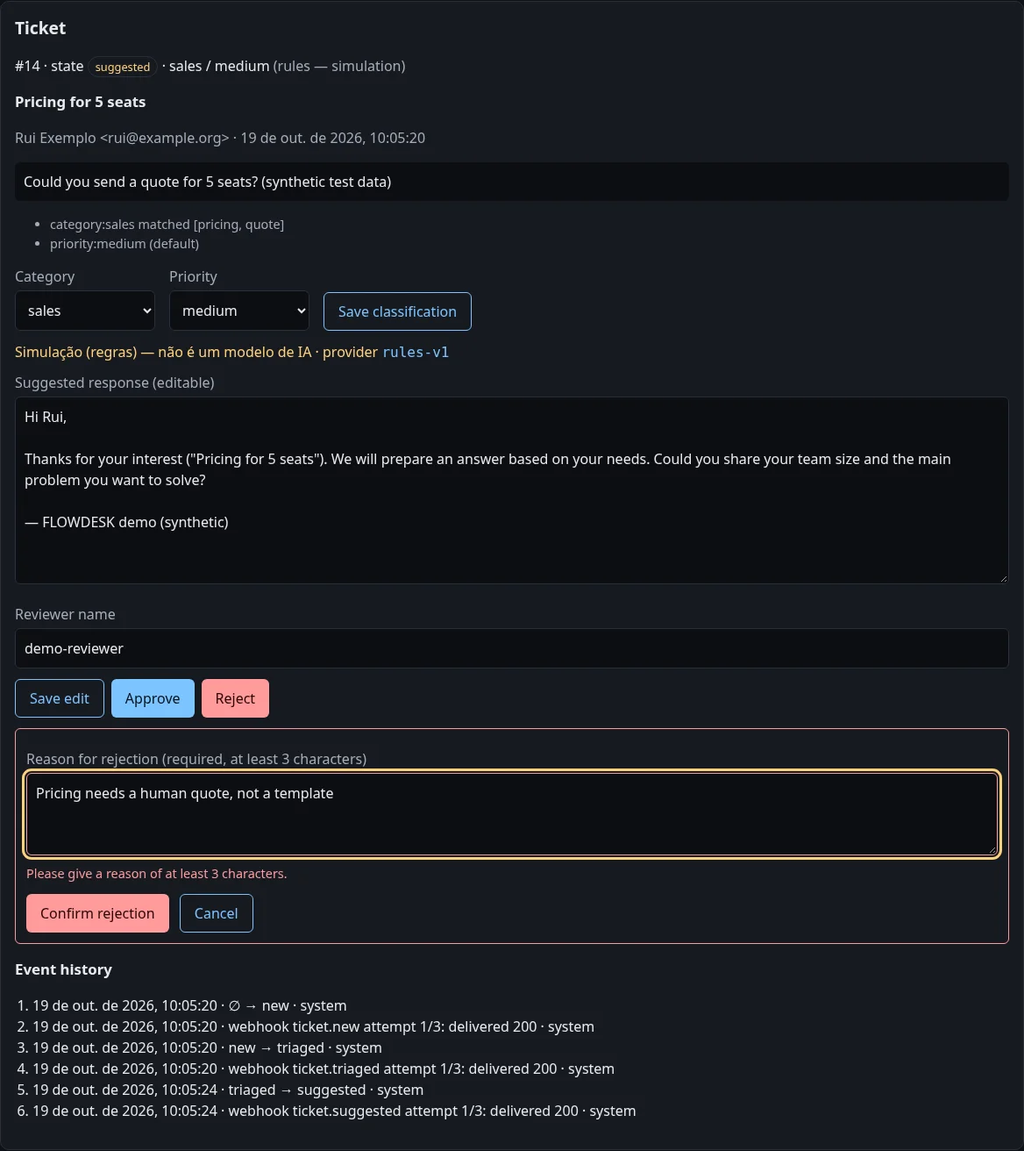
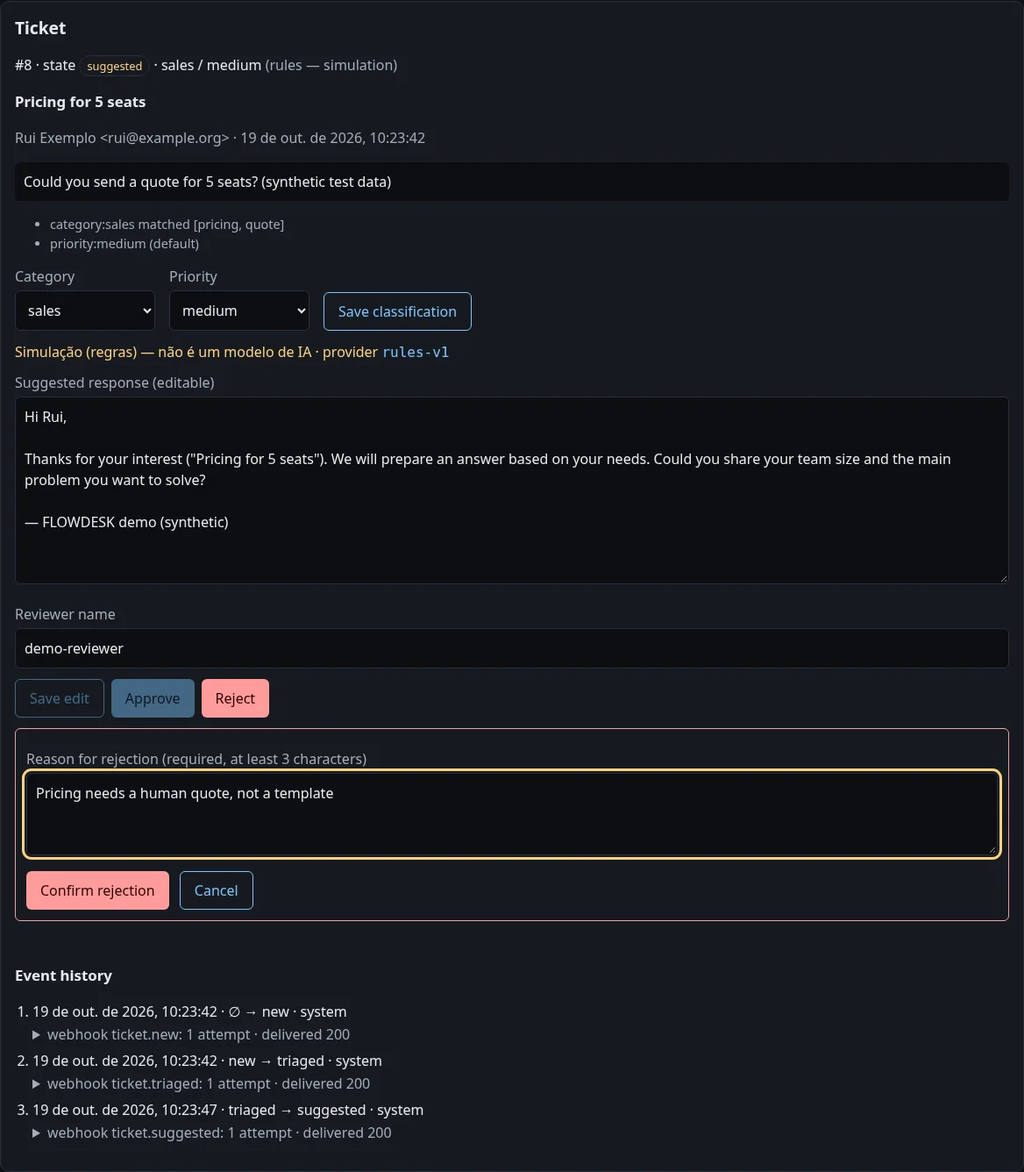
FLOWDESK prints + copy @b9e77fb (94/94, 64/64, axe/pa11y; 07b) + Vênus single scroll offset + main focus target

diff --git a/pt/work/flowdesk/index.html b/pt/work/flowdesk/index.html
@@ -89,20 +89,20 @@
 <figure class="stage stage--pair">
 <div class="stage__bar"><span>flowdesk</span><span class="sep">·</span><span>só local · sem deploy</span></div>
 <div class="stage__media">
-<img src="/assets/img/flowdesk-05-suggestion-sim-label-1280.webp" width="1168" height="1054" loading="lazy" decoding="async" alt="Ticket do FLOWDESK em 1280px após a sugestão por regras: ticket sintético de cobrança &#x27;Charged twice for October&#x27;, triagem billing/high com os motivos das regras, classificação editável, o rótulo &#x27;Simulação (regras) — não é um modelo de IA · provider rules-v1&#x27;, resposta sugerida editável, botões Save edit/Approve/Reject e histórico de seis eventos com as tentativas de webhook.">
-<img src="/assets/img/flowdesk-05-suggestion-sim-label-390.webp" width="716" height="3148" loading="lazy" decoding="async" alt="O mesmo estado de sugestão do FLOWDESK em 390px (celular), com o rótulo de simulação acima da resposta editável.">
+<img src="/assets/img/flowdesk-05-suggestion-sim-label-1280.webp" width="1168" height="1104" loading="lazy" decoding="async" alt="Ticket #7 do FLOWDESK em 1280px após a sugestão por regras: ticket sintético de cobrança &#x27;Charged twice for October&#x27;, triagem billing/high com os motivos das regras, classificação editável, o rótulo &#x27;Simulação (regras) — não é um modelo de IA · provider rules-v1&#x27;, resposta sugerida editável, botões Save edit/Approve/Reject e histórico de três eventos, cada um com as tentativas de webhook recolhidas logo abaixo.">
+<img src="/assets/img/flowdesk-05-suggestion-sim-label-390.webp" width="716" height="3104" loading="lazy" decoding="async" alt="O mesmo estado de sugestão do FLOWDESK em 390px (celular), com o rótulo de simulação acima da resposta editável.">
 </div>
-<figcaption>Captura real · FLOWDESK commit 905a387 · execução local (wrangler dev --local), dados sintéticos · sem deploy · 19/10/2026 10:04–10:06 BRT</figcaption>
+<figcaption>Captura real · FLOWDESK commit b9e77fb · execução local (wrangler dev --local), dados sintéticos · sem deploy · 19/10/2026 10:22–10:24 BRT</figcaption>
 </figure>
 <figure class="stage stage--grid">
 <div class="stage__bar"><span>flowdesk</span><span class="sep">·</span><span>rejeitar → motivo obrigatório</span></div>
 <div class="stage__media">
-<img src="/assets/img/flowdesk-08-reject-reason-empty-1280.webp" width="1168" height="1286" loading="lazy" decoding="async" alt="FLOWDESK em 1280px, segundo ticket sintético &#x27;Pricing for 5 seats&#x27; (sales/medium) depois de Reject: campo do motivo da rejeição na própria tela, vazio e com o foco, e botões Confirm rejection/Cancel.">
-<img src="/assets/img/flowdesk-08b-reject-reason-error-1280.webp" width="1168" height="1312" loading="lazy" decoding="async" alt="FLOWDESK em 1280px depois de Confirm rejection com o motivo vazio: o campo fica marcado como inválido, com o erro &#x27;Please give a reason of at least 3 characters.&#x27;">
-<img src="/assets/img/flowdesk-09-reject-reason-filled-1280.webp" width="1168" height="1312" loading="lazy" decoding="async" alt="FLOWDESK em 1280px com o motivo da rejeição preenchido: &#x27;Pricing needs a human quote, not a template&#x27;.">
-<img src="/assets/img/flowdesk-10-rejected-1280.webp" width="1168" height="1056" loading="lazy" decoding="async" alt="FLOWDESK em 1280px após a rejeição: estado rejected, resposta sugerida só para leitura, &#x27;rejected by demo-reviewer — reason: Pricing needs a human quote, not a template · response_sent: false&#x27;, botão Register (log &amp; close) e histórico de oito eventos.">
+<img src="/assets/img/flowdesk-08-reject-reason-empty-1280.webp" width="1168" height="1336" loading="lazy" decoding="async" alt="FLOWDESK em 1280px, segundo ticket sintético #8 &#x27;Pricing for 5 seats&#x27; (sales/medium) depois de Reject: campo do motivo da rejeição na própria tela, vazio e com o foco, botões Confirm rejection/Cancel, e Save edit/Approve desativados.">
+<img src="/assets/img/flowdesk-08b-reject-reason-error-1280.webp" width="1168" height="1362" loading="lazy" decoding="async" alt="FLOWDESK em 1280px depois de Confirm rejection com o motivo vazio: o campo fica marcado como inválido, com o erro &#x27;Please give a reason of at least 3 characters.&#x27;">
+<img src="/assets/img/flowdesk-09-reject-reason-filled-1280.webp" width="1168" height="1336" loading="lazy" decoding="async" alt="FLOWDESK em 1280px com o motivo da rejeição preenchido, &#x27;Pricing needs a human quote, not a template&#x27;: o erro some e Save edit/Approve continuam desativados.">
+<img src="/assets/img/flowdesk-10-rejected-1280.webp" width="1168" height="1114" loading="lazy" decoding="async" alt="FLOWDESK em 1280px após a rejeição: estado rejected, resposta sugerida só para leitura, &#x27;rejected by demo-reviewer — reason: Pricing needs a human quote, not a template · response_sent: false&#x27;, botão Register (log &amp; close) e histórico de quatro eventos com as tentativas de webhook recolhidas.">
 </div>
-<figcaption>Captura real · FLOWDESK commit 905a387 · execução local (wrangler dev --local), dados sintéticos · sem deploy · 19/10/2026 10:04–10:06 BRT</figcaption>
+<figcaption>Captura real · FLOWDESK commit b9e77fb · execução local (wrangler dev --local), dados sintéticos · sem deploy · 19/10/2026 10:22–10:24 BRT</figcaption>
 </figure></section>
 <section id="c-arch" aria-labelledby="c-arch-h"><h2 id="c-arch-h"><span class="num">04</span>Arquitetura</h2>
 <p>Um Cloudflare Worker que serve uma interface estática e uma API REST, com banco D1 (SQLite). Os dados ficam isolados por sandbox de visitante. Localmente, roda com <code>wrangler dev --local</code> (miniflare/workerd). As sugestões vêm de uma interface de provedor substituível. Hoje o único provedor é a simulação por regras, então conectar um modelo real depois significa acrescentar um provedor, o que exige um provedor autorizado.</p>
@@ -128,23 +128,30 @@
   - Uma assinatura de webhook forjada responde 401.
 - <strong>Um receptor externo de webhook</strong> conferiu todos os eventos assinados que recebeu.
 - <strong>Checagens de segurança:</strong>
-  - um teste de mutação no código de isolamento, autenticação, expiração, limites de envio e novas tentativas, em que todas as mutações foram detectadas;
   - as checagens estáticas;
   - gitleaks e trufflehog, rodados localmente, sem achados;
   - <code>npm audit</code> sem vulnerabilidades.</p>
-<p>Contagens da execução local de 19/10/2026 (commit testado <code>1b489bf</code>, código idêntico ao <code>905a387</code>), reproduzidas de forma independente pelo QA: 88/88 testes unitários e de integração, 50/50 checagens no navegador, 16/16 mutações detectadas, 5/5 assinaturas de webhook conferidas por um receptor externo.</p>
+<p>Contagens da execução local de 19/10/2026 no commit <code>b9e77fb</code>, reproduzidas de forma independente pelo QA: 94/94 testes unitários e de integração, 64/64 checagens no navegador, 5/5 assinaturas de webhook conferidas por um receptor externo.</p>
 <h3>Links</h3>
 <ul>
 <li>Repositório público: ainda não há. Log de testes interno, repositório ainda não público.</li>
-<li>Commit: <code>905a387</code> (local, sem URL pública).</li>
+<li>Commit: <code>b9e77fb</code> (local, sem URL pública).</li>
 </ul>
 <figure class="stage stage--pair">
 <div class="stage__bar"><span>flowdesk</span><span class="sep">·</span><span>aprovado → registrado</span></div>
 <div class="stage__media">
-<img src="/assets/img/flowdesk-07-logged-history-1280.webp" width="1168" height="1112" loading="lazy" decoding="async" alt="Ticket do FLOWDESK em 1280px após aprovação humana e registro: estado logged, o rótulo de simulação marcado &#x27;edited by a human&#x27;, a resposta aprovada só para leitura, &#x27;approved by demo-reviewer · response_sent: false (demo never sends email)&#x27; e histórico de onze eventos com as mudanças de estado, a edição do revisor e as tentativas de webhook.">
-<img src="/assets/img/flowdesk-07-logged-history-390.webp" width="716" height="3516" loading="lazy" decoding="async" alt="O mesmo ticket registrado do FLOWDESK em 390px (celular), com a resposta aprovada e o histórico completo.">
+<img src="/assets/img/flowdesk-07-logged-history-1280.webp" width="1168" height="1186" loading="lazy" decoding="async" alt="Ticket #7 do FLOWDESK em 1280px após aprovação humana e registro: estado logged, o rótulo de simulação marcado &#x27;edited by a human&#x27;, a resposta aprovada só para leitura, &#x27;approved by demo-reviewer · response_sent: false (demo never sends email)&#x27; e histórico de seis eventos (mudanças de estado e a edição do revisor), com as tentativas de webhook recolhidas sob cada mudança de estado.">
+<img src="/assets/img/flowdesk-07-logged-history-390.webp" width="716" height="3424" loading="lazy" decoding="async" alt="O mesmo ticket registrado do FLOWDESK em 390px (celular), com a resposta aprovada e o histórico de eventos.">
 </div>
-<figcaption>Captura real · FLOWDESK commit 905a387 · execução local (wrangler dev --local), dados sintéticos · sem deploy · 19/10/2026 10:04–10:06 BRT</figcaption>
+<figcaption>Captura real · FLOWDESK commit b9e77fb · execução local (wrangler dev --local), dados sintéticos · sem deploy · 19/10/2026 10:22–10:24 BRT</figcaption>
+</figure>
+<figure class="stage stage--pair">
+<div class="stage__bar"><span>flowdesk</span><span class="sep">·</span><span>tentativas de webhook abertas</span></div>
+<div class="stage__media">
+<img src="/assets/img/flowdesk-07b-logged-history-attempts-expanded-1280.webp" width="1168" height="1214" loading="lazy" decoding="async" alt="O mesmo ticket #7 registrado do FLOWDESK em 1280px com o primeiro grupo de webhook aberto: &#x27;webhook ticket.new: 1 attempt · delivered 200&#x27; mostra a tentativa 1/3, entregue com 200.">
+<img src="/assets/img/flowdesk-07b-logged-history-attempts-expanded-390.webp" width="716" height="3528" loading="lazy" decoding="async" alt="O mesmo grupo de tentativas de webhook aberto, em 390px (celular).">
+</div>
+<figcaption>Captura real · FLOWDESK commit b9e77fb · execução local (wrangler dev --local), dados sintéticos · sem deploy · 19/10/2026 10:22–10:24 BRT</figcaption>
 </figure></section>
 <section id="c-roles" aria-labelledby="c-roles-h"><h2 id="c-roles-h"><span class="num">06</span>Papel humano e ferramentas de IA</h2>
 <p>A aprovação humana é uma etapa <strong>dentro do produto</strong>: nada é aprovado nem registrado sem a ação de uma pessoa, e toda ação fica registrada com o autor. O software foi feito com desenvolvimento assistido por IA sob direção humana.</p>
@@ -171,10 +178,6 @@
 <td>passaram</td>
 </tr>
 <tr>
-<td>Teste de mutação (isolamento, autenticação, expiração, limites, novas tentativas)</td>
-<td>todas as mutações detectadas</td>
-</tr>
-<tr>
 <td>Checagens estáticas de segurança; gitleaks; trufflehog (local)</td>
 <td>passaram, sem achados</td>
 </tr>
@@ -192,7 +195,7 @@
 </tr>
 <tr>
 <td>axe-core / pa11y (local, QA)</td>
-<td>axe: nenhuma violação em 9 estados da interface; pa11y: 2 problemas em aberto</td>
+<td>axe: nenhuma violação em 9 estados da interface; pa11y: nenhum erro (4/4 estados da interface verificados)</td>
 </tr>
 </tbody>
 </table></div>
@@ -204,7 +207,7 @@
 <li><strong>Sem CI remoto.</strong> O arquivo de workflow existe, mas o repositório não tem remoto, então ele nunca rodou.</li>
 <li><strong>As novas tentativas de webhook não são duráveis.</strong> Elas rodam no mesmo ciclo da requisição. Sem o Cloudflare Queues, tentativas pendentes podem se perder se o worker for encerrado.</li>
 <li><strong>Sem limpeza agendada dos sandboxes.</strong> Os sandboxes expirados só são removidos quando acessados ou pela rota de administração; não há tarefa agendada.</li>
-<li><strong>A acessibilidade foi verificada só de forma automática</strong> (axe-core, pa11y) num servidor local, sem teste com leitor de tela; o pa11y ainda aponta dois problemas em aberto.</li>
+<li><strong>A acessibilidade foi verificada só de forma automática</strong> (axe-core, pa11y) num servidor local, sem teste com leitor de tela.</li>
 <li>Os visitantes são anônimos e a administração usa um único token compartilhado; não há contas de usuário.</li>
 <li>O limite de envios é uma janela fixa simples, não serve contra abuso.</li>
 <li>A interface está em inglês, com exceção do rótulo de simulação em português.</li>

diff --git a/work/flowdesk/index.html b/work/flowdesk/index.html
@@ -89,20 +89,20 @@
 <figure class="stage stage--pair">
 <div class="stage__bar"><span>flowdesk</span><span class="sep">·</span><span>local only · not deployed</span></div>
 <div class="stage__media">
-<img src="/assets/img/flowdesk-05-suggestion-sim-label-1280.webp" width="1168" height="1054" loading="lazy" decoding="async" alt="FLOWDESK ticket at 1280px after a rule-based suggestion: synthetic billing ticket &#x27;Charged twice for October&#x27;, triage billing/high with the matched rule reasons, editable classification, the label &#x27;Simulação (regras) — não é um modelo de IA · provider rules-v1&#x27;, an editable suggested reply, Save edit/Approve/Reject buttons and a six-entry event history with webhook delivery attempts.">
-<img src="/assets/img/flowdesk-05-suggestion-sim-label-390.webp" width="716" height="3148" loading="lazy" decoding="async" alt="The same FLOWDESK suggestion state at 390px mobile width, with the simulation label above the editable reply.">
+<img src="/assets/img/flowdesk-05-suggestion-sim-label-1280.webp" width="1168" height="1104" loading="lazy" decoding="async" alt="FLOWDESK ticket #7 at 1280px after a rule-based suggestion: synthetic billing ticket &#x27;Charged twice for October&#x27;, triage billing/high with the matched rule reasons, editable classification, the label &#x27;Simulação (regras) — não é um modelo de IA · provider rules-v1&#x27;, an editable suggested reply, Save edit/Approve/Reject buttons and a three-entry event history, each entry with its webhook attempts collapsed beneath it.">
+<img src="/assets/img/flowdesk-05-suggestion-sim-label-390.webp" width="716" height="3104" loading="lazy" decoding="async" alt="The same FLOWDESK suggestion state at 390px mobile width, with the simulation label above the editable reply.">
 </div>
-<figcaption>Real capture · FLOWDESK commit 905a387 · local run (wrangler dev --local), synthetic data · not deployed · 2026-10-19 10:04–10:06 BRT</figcaption>
+<figcaption>Real capture · FLOWDESK commit b9e77fb · local run (wrangler dev --local), synthetic data · not deployed · 2026-10-19 10:22–10:24 BRT</figcaption>
 </figure>
 <figure class="stage stage--grid">
 <div class="stage__bar"><span>flowdesk</span><span class="sep">·</span><span>reject → reason required</span></div>
 <div class="stage__media">
-<img src="/assets/img/flowdesk-08-reject-reason-empty-1280.webp" width="1168" height="1286" loading="lazy" decoding="async" alt="FLOWDESK at 1280px, second synthetic ticket &#x27;Pricing for 5 seats&#x27; (sales/medium) after Reject: an inline, empty field for the rejection reason, with focus on it, and Confirm rejection/Cancel buttons.">
-<img src="/assets/img/flowdesk-08b-reject-reason-error-1280.webp" width="1168" height="1312" loading="lazy" decoding="async" alt="FLOWDESK at 1280px after Confirm rejection with an empty reason: the field is marked invalid with the error &#x27;Please give a reason of at least 3 characters.&#x27;">
-<img src="/assets/img/flowdesk-09-reject-reason-filled-1280.webp" width="1168" height="1312" loading="lazy" decoding="async" alt="FLOWDESK at 1280px with the rejection reason filled in: &#x27;Pricing needs a human quote, not a template&#x27;.">
-<img src="/assets/img/flowdesk-10-rejected-1280.webp" width="1168" height="1056" loading="lazy" decoding="async" alt="FLOWDESK at 1280px after the rejection: state rejected, the suggested reply read-only, &#x27;rejected by demo-reviewer — reason: Pricing needs a human quote, not a template · response_sent: false&#x27;, a Register (log &amp; close) button and an eight-entry event history.">
+<img src="/assets/img/flowdesk-08-reject-reason-empty-1280.webp" width="1168" height="1336" loading="lazy" decoding="async" alt="FLOWDESK at 1280px, second synthetic ticket #8 &#x27;Pricing for 5 seats&#x27; (sales/medium) after Reject: an inline, empty field for the rejection reason, with focus on it, Confirm rejection/Cancel buttons, and Save edit/Approve disabled.">
+<img src="/assets/img/flowdesk-08b-reject-reason-error-1280.webp" width="1168" height="1362" loading="lazy" decoding="async" alt="FLOWDESK at 1280px after Confirm rejection with an empty reason: the field is marked invalid with the error &#x27;Please give a reason of at least 3 characters.&#x27;">
+<img src="/assets/img/flowdesk-09-reject-reason-filled-1280.webp" width="1168" height="1336" loading="lazy" decoding="async" alt="FLOWDESK at 1280px with the rejection reason filled in, &#x27;Pricing needs a human quote, not a template&#x27;: the error is cleared and Save edit/Approve stay disabled.">
+<img src="/assets/img/flowdesk-10-rejected-1280.webp" width="1168" height="1114" loading="lazy" decoding="async" alt="FLOWDESK at 1280px after the rejection: state rejected, the suggested reply read-only, &#x27;rejected by demo-reviewer — reason: Pricing needs a human quote, not a template · response_sent: false&#x27;, a Register (log &amp; close) button and a four-entry event history with collapsed webhook attempts.">
 </div>
-<figcaption>Real capture · FLOWDESK commit 905a387 · local run (wrangler dev --local), synthetic data · not deployed · 2026-10-19 10:04–10:06 BRT</figcaption>
+<figcaption>Real capture · FLOWDESK commit b9e77fb · local run (wrangler dev --local), synthetic data · not deployed · 2026-10-19 10:22–10:24 BRT</figcaption>
 </figure></section>
 <section id="c-arch" aria-labelledby="c-arch-h"><h2 id="c-arch-h"><span class="num">04</span>Architecture</h2>
 <p>A Cloudflare Worker serving a static interface and a REST API, with a D1 (SQLite) database. Data is isolated per visitor sandbox. Locally it runs on <code>wrangler dev --local</code> (miniflare/workerd). Suggestions come from a pluggable provider interface. The only provider today is the rules simulation, so connecting a real model later would mean adding a provider, which needs an authorised provider.</p>
@@ -128,23 +128,30 @@
   - A forged webhook signature returns 401.
 - <strong>An external webhook receiver</strong> verified every signed event it received.
 - <strong>Security checks:</strong>
-  - a mutation check on the isolation, authentication, expiry, rate-limit and retry code, in which every mutant was caught;
   - static checks;
   - gitleaks and trufflehog, both run locally, with no findings;
   - <code>npm audit</code> with no vulnerabilities.</p>
-<p>Counts from the local run of 2026-10-19 (tested commit <code>1b489bf</code>, code identical to <code>905a387</code>), reproduced independently by QA: 88/88 unit and integration tests, 50/50 browser checks, 16/16 mutants caught, 5/5 webhook signatures verified by an external receiver.</p>
+<p>Counts from the local run of 2026-10-19 at commit <code>b9e77fb</code>, reproduced independently by QA: 94/94 unit and integration tests, 64/64 browser checks, 5/5 webhook signatures verified by an external receiver.</p>
 <h3>Links</h3>
 <ul>
 <li>Public repository: none yet. Internal test log, repository not yet public.</li>
-<li>Commit: <code>905a387</code> (local, no public URL).</li>
+<li>Commit: <code>b9e77fb</code> (local, no public URL).</li>
 </ul>
 <figure class="stage stage--pair">
 <div class="stage__bar"><span>flowdesk</span><span class="sep">·</span><span>approved → logged</span></div>
 <div class="stage__media">
-<img src="/assets/img/flowdesk-07-logged-history-1280.webp" width="1168" height="1112" loading="lazy" decoding="async" alt="FLOWDESK ticket at 1280px after human approval and logging: state logged, the simulation label marked &#x27;edited by a human&#x27;, the approved response read-only, &#x27;approved by demo-reviewer · response_sent: false (demo never sends email)&#x27; and an eleven-entry event history of state changes, the reviewer&#x27;s edit and webhook delivery attempts.">
-<img src="/assets/img/flowdesk-07-logged-history-390.webp" width="716" height="3516" loading="lazy" decoding="async" alt="The same logged FLOWDESK ticket at 390px mobile width, with the approved response and the full event history.">
+<img src="/assets/img/flowdesk-07-logged-history-1280.webp" width="1168" height="1186" loading="lazy" decoding="async" alt="FLOWDESK ticket #7 at 1280px after human approval and logging: state logged, the simulation label marked &#x27;edited by a human&#x27;, the approved response read-only, &#x27;approved by demo-reviewer · response_sent: false (demo never sends email)&#x27; and a six-entry event history (state changes and the reviewer&#x27;s edit), with the webhook attempts collapsed under each state change.">
+<img src="/assets/img/flowdesk-07-logged-history-390.webp" width="716" height="3424" loading="lazy" decoding="async" alt="The same logged FLOWDESK ticket at 390px mobile width, with the approved response and the event history.">
 </div>
-<figcaption>Real capture · FLOWDESK commit 905a387 · local run (wrangler dev --local), synthetic data · not deployed · 2026-10-19 10:04–10:06 BRT</figcaption>
+<figcaption>Real capture · FLOWDESK commit b9e77fb · local run (wrangler dev --local), synthetic data · not deployed · 2026-10-19 10:22–10:24 BRT</figcaption>
+</figure>
+<figure class="stage stage--pair">
+<div class="stage__bar"><span>flowdesk</span><span class="sep">·</span><span>webhook attempts expanded</span></div>
+<div class="stage__media">
+<img src="/assets/img/flowdesk-07b-logged-history-attempts-expanded-1280.webp" width="1168" height="1214" loading="lazy" decoding="async" alt="The same logged FLOWDESK ticket #7 at 1280px with the first webhook group expanded: &#x27;webhook ticket.new: 1 attempt · delivered 200&#x27; opens to show attempt 1/3, delivered 200.">
+<img src="/assets/img/flowdesk-07b-logged-history-attempts-expanded-390.webp" width="716" height="3528" loading="lazy" decoding="async" alt="The same expanded webhook attempt group at 390px mobile width.">
+</div>
+<figcaption>Real capture · FLOWDESK commit b9e77fb · local run (wrangler dev --local), synthetic data · not deployed · 2026-10-19 10:22–10:24 BRT</figcaption>
 </figure></section>
 <section id="c-roles" aria-labelledby="c-roles-h"><h2 id="c-roles-h"><span class="num">06</span>Human role and AI tools</h2>
 <p>Human approval is a step <strong>inside the product</strong>: nothing is approved or registered without a person acting, and every action is logged with its author. The software was built through human-directed AI-assisted development.</p>
@@ -171,10 +178,6 @@
 <td>passed</td>
 </tr>
 <tr>
-<td>Mutation check (isolation, auth, expiry, rate limit, retry)</td>
-<td>every mutant caught</td>
-</tr>
-<tr>
 <td>Static security checks; gitleaks; trufflehog (local)</td>
 <td>passed, no findings</td>
 </tr>
@@ -192,7 +195,7 @@
 </tr>
 <tr>
 <td>axe-core / pa11y (local, QA)</td>
-<td>axe: no violations in 9 interface states; pa11y: 2 open issues</td>
+<td>axe: no violations in 9 interface states; pa11y: no errors (4/4 interface states checked)</td>
 </tr>
 </tbody>
 </table></div>
@@ -204,7 +207,7 @@
 <li><strong>No remote CI.</strong> A workflow file exists, but the repository has no remote, so it has never run.</li>
 <li><strong>Webhook retry is not durable.</strong> Retries run in the same request lifecycle. Without Cloudflare Queues, pending attempts can be lost if the worker is stopped.</li>
 <li><strong>No scheduled sandbox cleanup.</strong> Expired sandboxes are removed only when accessed or through the admin route; there is no scheduled job.</li>
-<li><strong>Accessibility was checked only automatically</strong> (axe-core, pa11y) on a local server, with no screen-reader test; pa11y still reports two open issues.</li>
+<li><strong>Accessibility was checked only automatically</strong> (axe-core, pa11y) on a local server, with no screen-reader test.</li>
 <li>Visitors are anonymous and the admin uses a single shared token; there are no user accounts.</li>
 <li>The rate limit is a simple fixed window, not abuse-grade.</li>
 <li>The interface is in English, apart from the Portuguese simulation label.</li>

diff --git a/pt/work/index.html b/pt/work/index.html
@@ -65,9 +65,9 @@
 <p><strong>O que é:</strong> ambiente de análise de xadrez. A interface React só conversa com o motor nativo por meio de um controlador WebSocket e de um adaptador UCI; a versão Android roda o motor como processo nativo.
 <strong>Testado:</strong> passou em 8/8 testes de parser e de sessão (com saída de motor simulada), e o typecheck está limpo.
 <strong>Não feito:</strong> sem CI, sem rodar os smoke tests do motor e sem benchmark de força ou desempenho.</p>
-<p class="more">→ <a href="/pt/work/sherlock/">SHERLOCK</a></p></div></article><article class="card project-card"><div class="project-card__media"><img src="/assets/img/flowdesk-05-suggestion-sim-label-1280.webp" width="1168" height="1054" loading="lazy" decoding="async" alt="Ticket do FLOWDESK em 1280px após a sugestão por regras: ticket sintético de cobrança &#x27;Charged twice for October&#x27;, triagem billing/high com os motivos das regras, classificação editável, o rótulo &#x27;Simulação (regras) — não é um modelo de IA · provider rules-v1&#x27;, resposta sugerida editável, botões Save edit/Approve/Reject e histórico de seis eventos com as tentativas de webhook."></div><div class="project-card__body"><div class="project-card__meta"><span class="tag tag--warn">em desenvolvimento</span><span class="tag tag--sim">Simulação (regras) — não é um modelo de IA</span><span class="tag">só local · sem deploy</span></div><h3>FLOWDESK · AI Operations Demo</h3>
+<p class="more">→ <a href="/pt/work/sherlock/">SHERLOCK</a></p></div></article><article class="card project-card"><div class="project-card__media"><img src="/assets/img/flowdesk-05-suggestion-sim-label-1280.webp" width="1168" height="1104" loading="lazy" decoding="async" alt="Ticket #7 do FLOWDESK em 1280px após a sugestão por regras: ticket sintético de cobrança &#x27;Charged twice for October&#x27;, triagem billing/high com os motivos das regras, classificação editável, o rótulo &#x27;Simulação (regras) — não é um modelo de IA · provider rules-v1&#x27;, resposta sugerida editável, botões Save edit/Approve/Reject e histórico de três eventos, cada um com as tentativas de webhook recolhidas logo abaixo."></div><div class="project-card__body"><div class="project-card__meta"><span class="tag tag--warn">em desenvolvimento</span><span class="tag tag--sim">Simulação (regras) — não é um modelo de IA</span><span class="tag">só local · sem deploy</span></div><h3>FLOWDESK · AI Operations Demo</h3>
 <p><strong>O que é:</strong> a demonstração de um fluxo de operações: formulário → triagem por regras → sugestão de resposta simulada → aprovação humana → registro, com webhooks assinados, um sandbox privado de 24 horas por visitante e administração protegida por token.
-<strong>Testado:</strong> testes unitários, de integração e no navegador passaram num servidor local (88/88, 50/50), reproduzidos pelo QA.
+<strong>Testado:</strong> testes unitários, de integração e no navegador passaram num servidor local (94/94, 64/64), reproduzidos pelo QA.
 <strong>Não feito:</strong> demo local, hospedagem pendente; sem CI remoto; acessibilidade verificada só de forma automática.</p>
 <p class="more">→ <a href="/pt/work/flowdesk/">FLOWDESK</a></p></div></article></div></section>
 <section class="section__head" aria-labelledby="w-1"><h2 id="w-1">Outros projetos públicos</h2><div class="card-grid card-grid--3"><article class="card project-card"><div class="project-card__body"><h3>MIME</h3>

diff --git a/work/index.html b/work/index.html
@@ -65,9 +65,9 @@
 <p><strong>What it is:</strong> a chess analysis environment. A React interface talks to a native chess engine only through a WebSocket controller and a UCI adapter; an Android build runs the engine as a native process.
 <strong>Tested:</strong> 8/8 parser and session tests passed (mocked engine output); typecheck clean.
 <strong>Not done:</strong> no CI; engine smoke tests not run; no strength or performance benchmark.</p>
-<p class="more">→ <a href="/work/sherlock/">SHERLOCK</a></p></div></article><article class="card project-card"><div class="project-card__media"><img src="/assets/img/flowdesk-05-suggestion-sim-label-1280.webp" width="1168" height="1054" loading="lazy" decoding="async" alt="FLOWDESK ticket at 1280px after a rule-based suggestion: synthetic billing ticket &#x27;Charged twice for October&#x27;, triage billing/high with the matched rule reasons, editable classification, the label &#x27;Simulação (regras) — não é um modelo de IA · provider rules-v1&#x27;, an editable suggested reply, Save edit/Approve/Reject buttons and a six-entry event history with webhook delivery attempts."></div><div class="project-card__body"><div class="project-card__meta"><span class="tag tag--warn">in development</span><span class="tag tag--sim">Simulação (regras) — não é um modelo de IA</span><span class="tag">local only · not deployed</span></div><h3>FLOWDESK · AI Operations Demo</h3>
+<p class="more">→ <a href="/work/sherlock/">SHERLOCK</a></p></div></article><article class="card project-card"><div class="project-card__media"><img src="/assets/img/flowdesk-05-suggestion-sim-label-1280.webp" width="1168" height="1104" loading="lazy" decoding="async" alt="FLOWDESK ticket #7 at 1280px after a rule-based suggestion: synthetic billing ticket &#x27;Charged twice for October&#x27;, triage billing/high with the matched rule reasons, editable classification, the label &#x27;Simulação (regras) — não é um modelo de IA · provider rules-v1&#x27;, an editable suggested reply, Save edit/Approve/Reject buttons and a three-entry event history, each entry with its webhook attempts collapsed beneath it."></div><div class="project-card__body"><div class="project-card__meta"><span class="tag tag--warn">in development</span><span class="tag tag--sim">Simulação (regras) — não é um modelo de IA</span><span class="tag">local only · not deployed</span></div><h3>FLOWDESK · AI Operations Demo</h3>
 <p><strong>What it is:</strong> a demo of an operations flow: form → rule-based triage → simulated reply suggestion → human approval → log, with signed webhooks, a private 24-hour sandbox per visitor and token-protected admin.
-<strong>Tested:</strong> unit, integration and browser tests passed on a local server (88/88, 50/50), reproduced by QA.
+<strong>Tested:</strong> unit, integration and browser tests passed on a local server (94/94, 64/64), reproduced by QA.
 <strong>Not done:</strong> local demo, hosting pending; no remote CI; accessibility checked only automatically.</p>
 <p class="more">→ <a href="/work/flowdesk/">FLOWDESK</a></p></div></article></div></section>
 <section class="section__head" aria-labelledby="w-1"><h2 id="w-1">Other public projects</h2><div class="card-grid card-grid--3"><article class="card project-card"><div class="project-card__body"><h3>MIME</h3>

diff --git a/styles.css b/styles.css
@@ -94,6 +94,7 @@
   /* ---- Layers ---- */
   --z-header: 50;
   --header-h: 3.5rem;
+  --scroll-offset: 73px;    /* single anchor/focus offset under the sticky header (= site scroll-margin-top) */
 
   color-scheme: light;
 }
@@ -109,7 +110,11 @@
 
 /* ===== Base ===== */
 *, *::before, *::after { box-sizing: border-box; }
-html { -webkit-text-size-adjust: 100%; scroll-padding-top: calc(var(--header-h) + var(--sp-4)); }
+/* Sticky-header offset: ONE mechanism only. scroll-padding-top stays 0 on purpose;
+   the offset lives in scroll-margin-top on targets (site: 73px, per Lugh). Using both
+   stacked (~145px) and pushed focused/anchored content too far down (Luna, 2026-10-19). */
+html { -webkit-text-size-adjust: 100%; scroll-padding-top: 0; }
+[id] { scroll-margin-top: var(--scroll-offset); }
 body {
   margin: 0;
   font-family: var(--font-sans);
@@ -147,6 +152,7 @@ code, kbd, samp, .mono { font-family: var(--font-mono); font-size: 0.92em; }
   background: var(--c-ink); color: var(--c-surface); padding: var(--sp-2) var(--sp-4); border-radius: var(--r-md);
 }
 .skip-link:focus { top: var(--sp-3); color: var(--c-surface); }
+main:focus { outline: none; } /* programmatic focus target of the skip link (tabindex="-1") */
 
 /* Mono uppercase label (kicker, meta) */
 .label {
@@ -468,10 +474,6 @@ legend { font-weight: var(--fw-semi); font-size: var(--fs-sm); padding: 0; margi
 .hero .btn-row{margin-top:var(--sp-5)}
 .stage--grid .stage__media{display:grid;grid-template-columns:1fr;gap:1px;background:var(--c-stage-line);align-items:start}
 @media (min-width:48rem){.stage--grid .stage__media{grid-template-columns:repeat(2,1fr)}}
-/* Focus / anchor targets clear the sticky header (Crono RC finding 3).
-   Offset = header bar min-height (--header-h, 3.5rem) + its 1px bottom border (--bw) + --sp-4 gap
-   = 73px, measured 57px header in Chrome at 360/768/1280. It lives on the targets (scroll-margin-top);
-   html scroll-padding-top from components.css is reset so the offset is not applied twice. */
-:root{--scroll-offset:calc(var(--header-h) + var(--bw) + var(--sp-4))}
-html{scroll-padding-top:0}
-:target,[id],a,button,input,select,textarea,summary,[tabindex],.card{scroll-margin-top:var(--scroll-offset)}
+/* Focusable targets use Vênus's single offset (tokens.css --scroll-offset: 73px; components.css already
+   sets it on [id] and keeps html scroll-padding-top: 0). Extends it to focusables, no second offset. */
+a,button,input,select,textarea,summary,[tabindex],.card{scroll-margin-top:var(--scroll-offset)}

diff --git a/pt/index.html b/pt/index.html
@@ -114,7 +114,7 @@ Um processo repetitivo (entrada de pedidos, triagem, rascunho de resposta, regis
 <div class="section__head"><h2 id="h-projetos">Trabalho que você pode inspecionar</h2><p>Cada número abaixo vem de uma execução de teste ou de um registro de CI. Não citamos clientes, porque não há nenhum documentado.</p></div>
 <div class="card-grid card-grid--3">
 <article class="card card--link project-card">
-<div class="project-card__media"><img src="/assets/img/flowdesk-05-suggestion-sim-label-1280.webp" width="1168" height="1054" loading="lazy" decoding="async" alt="Ticket do FLOWDESK em 1280px após a sugestão por regras: ticket sintético de cobrança &#x27;Charged twice for October&#x27;, triagem billing/high com os motivos das regras, classificação editável, o rótulo &#x27;Simulação (regras) — não é um modelo de IA · provider rules-v1&#x27;, resposta sugerida editável, botões Save edit/Approve/Reject e histórico de seis eventos com as tentativas de webhook."></div>
+<div class="project-card__media"><img src="/assets/img/flowdesk-05-suggestion-sim-label-1280.webp" width="1168" height="1104" loading="lazy" decoding="async" alt="Ticket #7 do FLOWDESK em 1280px após a sugestão por regras: ticket sintético de cobrança &#x27;Charged twice for October&#x27;, triagem billing/high com os motivos das regras, classificação editável, o rótulo &#x27;Simulação (regras) — não é um modelo de IA · provider rules-v1&#x27;, resposta sugerida editável, botões Save edit/Approve/Reject e histórico de três eventos, cada um com as tentativas de webhook recolhidas logo abaixo."></div>
 <div class="project-card__body">
 <div class="project-card__meta"><span class="tag tag--warn">em desenvolvimento</span><span class="tag tag--sim">Simulação (regras) — não é um modelo de IA</span><span class="tag">só local · sem deploy</span></div>
 <h3>FLOWDESK — AI Operations Demo</h3>

diff --git a/index.html b/index.html
@@ -111,7 +111,7 @@
 <div class="section__head"><h2 id="h-projetos">Work you can inspect</h2><p>Every number below comes from a test run or a CI record. No client names, because none are documented.</p></div>
 <div class="card-grid card-grid--3">
 <article class="card card--link project-card">
-<div class="project-card__media"><img src="/assets/img/flowdesk-05-suggestion-sim-label-1280.webp" width="1168" height="1054" loading="lazy" decoding="async" alt="FLOWDESK ticket at 1280px after a rule-based suggestion: synthetic billing ticket &#x27;Charged twice for October&#x27;, triage billing/high with the matched rule reasons, editable classification, the label &#x27;Simulação (regras) — não é um modelo de IA · provider rules-v1&#x27;, an editable suggested reply, Save edit/Approve/Reject buttons and a six-entry event history with webhook delivery attempts."></div>
+<div class="project-card__media"><img src="/assets/img/flowdesk-05-suggestion-sim-label-1280.webp" width="1168" height="1104" loading="lazy" decoding="async" alt="FLOWDESK ticket #7 at 1280px after a rule-based suggestion: synthetic billing ticket &#x27;Charged twice for October&#x27;, triage billing/high with the matched rule reasons, editable classification, the label &#x27;Simulação (regras) — não é um modelo de IA · provider rules-v1&#x27;, an editable suggested reply, Save edit/Approve/Reject buttons and a three-entry event history, each entry with its webhook attempts collapsed beneath it."></div>
 <div class="project-card__body">
 <div class="project-card__meta"><span class="tag tag--warn">in development</span><span class="tag tag--sim">Simulação (regras) — não é um modelo de IA</span><span class="tag">local only · not deployed</span></div>
 <h3>FLOWDESK — AI Operations Demo</h3>

diff --git a/STATUS.md b/STATUS.md
@@ -84,3 +84,11 @@ Pedido do Lugh após a liberação do Crono em 7a6991f. Commits só locais em sp
 - `1faaa03` **números do FLOWDESK**: E44 aprovado pelo Crono (qa/AUDITORIA-COPY.md:275), publicado como está na copy: work-flowdesk EN/PT :61, :81, :89 e work EN/PT :31–32 (88/88, 50/50, 16/16, 5/5, commit testado 1b489bf ≡ 905a387; axe/pa11y). Sem métricas de Lighthouse.
 - Medições em 1faaa03 (`docs/luna-checks.log`, run 10:14 BRT): html-validate exit 0; links internos 727/0 quebrados; Moony ci-local PASSOU (lychee 837 total, 709 OK, 0 erros; logs/moony-ci-1faaa03.log); 25×200 locais, incluindo /favicon.svg (image/svg+xml) e /favicon.ico (image/vnd.microsoft.icon); 15/15 links externos 200; overflow 0 em 54; teclado 36/36 ok; axe 0 violações em 36; foco sob o header 0 em 3204 paradas (Tab + Shift+Tab, 54 renders), alvos de âncora sob o header 0 em 210 navegações. Informativo: 24 paradas em cards mais altos que a tela menos o header (o link fica visível; o card inteiro não cabe).
 - Gerador: `/tmp/luna-gen/gen.py` e `checks.sh` atualizados (o checks.sh agora acrescenta ao log em vez de sobrescrever e roda também `focusclip.py`). Backups em `/tmp/luna-gen/*.bak-*`.
+
+## Rodada 5 — prints e copy do FLOWDESK @b9e77fb, offset único da Vênus, main como alvo de foco (2026-10-19 ~10:35 BRT)
+- **Prints da Vênus @b9e77fb** (capturados 10:22–10:24 BRT; round 2 em `round2/`): os 39 SHA-256 do README conferidos, 39/39 OK, e todo arquivo da pasta está no manifesto. Substituídos 05 (par; webp da Vênus, byte a byte), 07 (par 1280+390) e a grade 08/08b/09/10 (1280); novo 07b (grupo de tentativas de webhook aberto) em par logo depois do 07. width/height corrigidos; alt e legendas citam b9e77fb, 10:22–10:24 BRT, tickets #7/#8, tentativas de webhook recolhidas, Save edit/Approve desativados na rejeição. Rótulo de simulação mantido.
+- **Copy do Hermes @b9e77fb** (relida às 10:29), sincronizada inteira e literal: work-flowdesk EN/PT :60 (94/94, 64/64, 5/5 @b9e77fb), :64 (commit b9e77fb), :79 (axe 0 em 9 estados; pa11y sem erros, 4/4), :87 (sem a nota "pa11y 2 open"); work EN/PT :31 (94/94, 64/64). Saíram 88/88, 50/50, 16/16 e a linha de mutação. rg no HTML: Lighthouse 0, CLS 0, 16/16 0, 88/88 0, 50/50 0.
+- **CSS**: styles.css re-montado com o tokens.css/components.css atuais da Vênus (`--scroll-offset: 73px`, `html{scroll-padding-top:0}`, `[id]{scroll-margin-top}`, `main:focus{outline:none}`). Meu override saiu (sem calc próprio, sem scroll-padding no site); ficou só a extensão do mesmo `var(--scroll-offset)` para a/button/input/select/textarea/summary/[tabindex]/.card. Offset único: 73px, scroll-padding 0 (medido).
+- **main.js card-scroll mantido**: sem ele, focusclip mede 44 paradas com o card sob o header; com ele, 0.
+- **main**: `tabindex="-1"` já estava nas 19 páginas (gerador); o teclado agora exige activeElement.tagName === 'MAIN' + tabindex -1 + sem outline depois do skip link: 36/36.
+- Checks (run 10:30 BRT, árvore de trabalho = este commit): html-validate exit 0; links internos 731/0; Moony ci-local PASSOU; 25×200 locais; 15/15 externos 200; overflow 0/54; teclado 36/36; axe 0/36; foco sob o header 0 em 3204 paradas; âncoras 0/210 (24 paradas informativas em cards mais altos que a tela).
